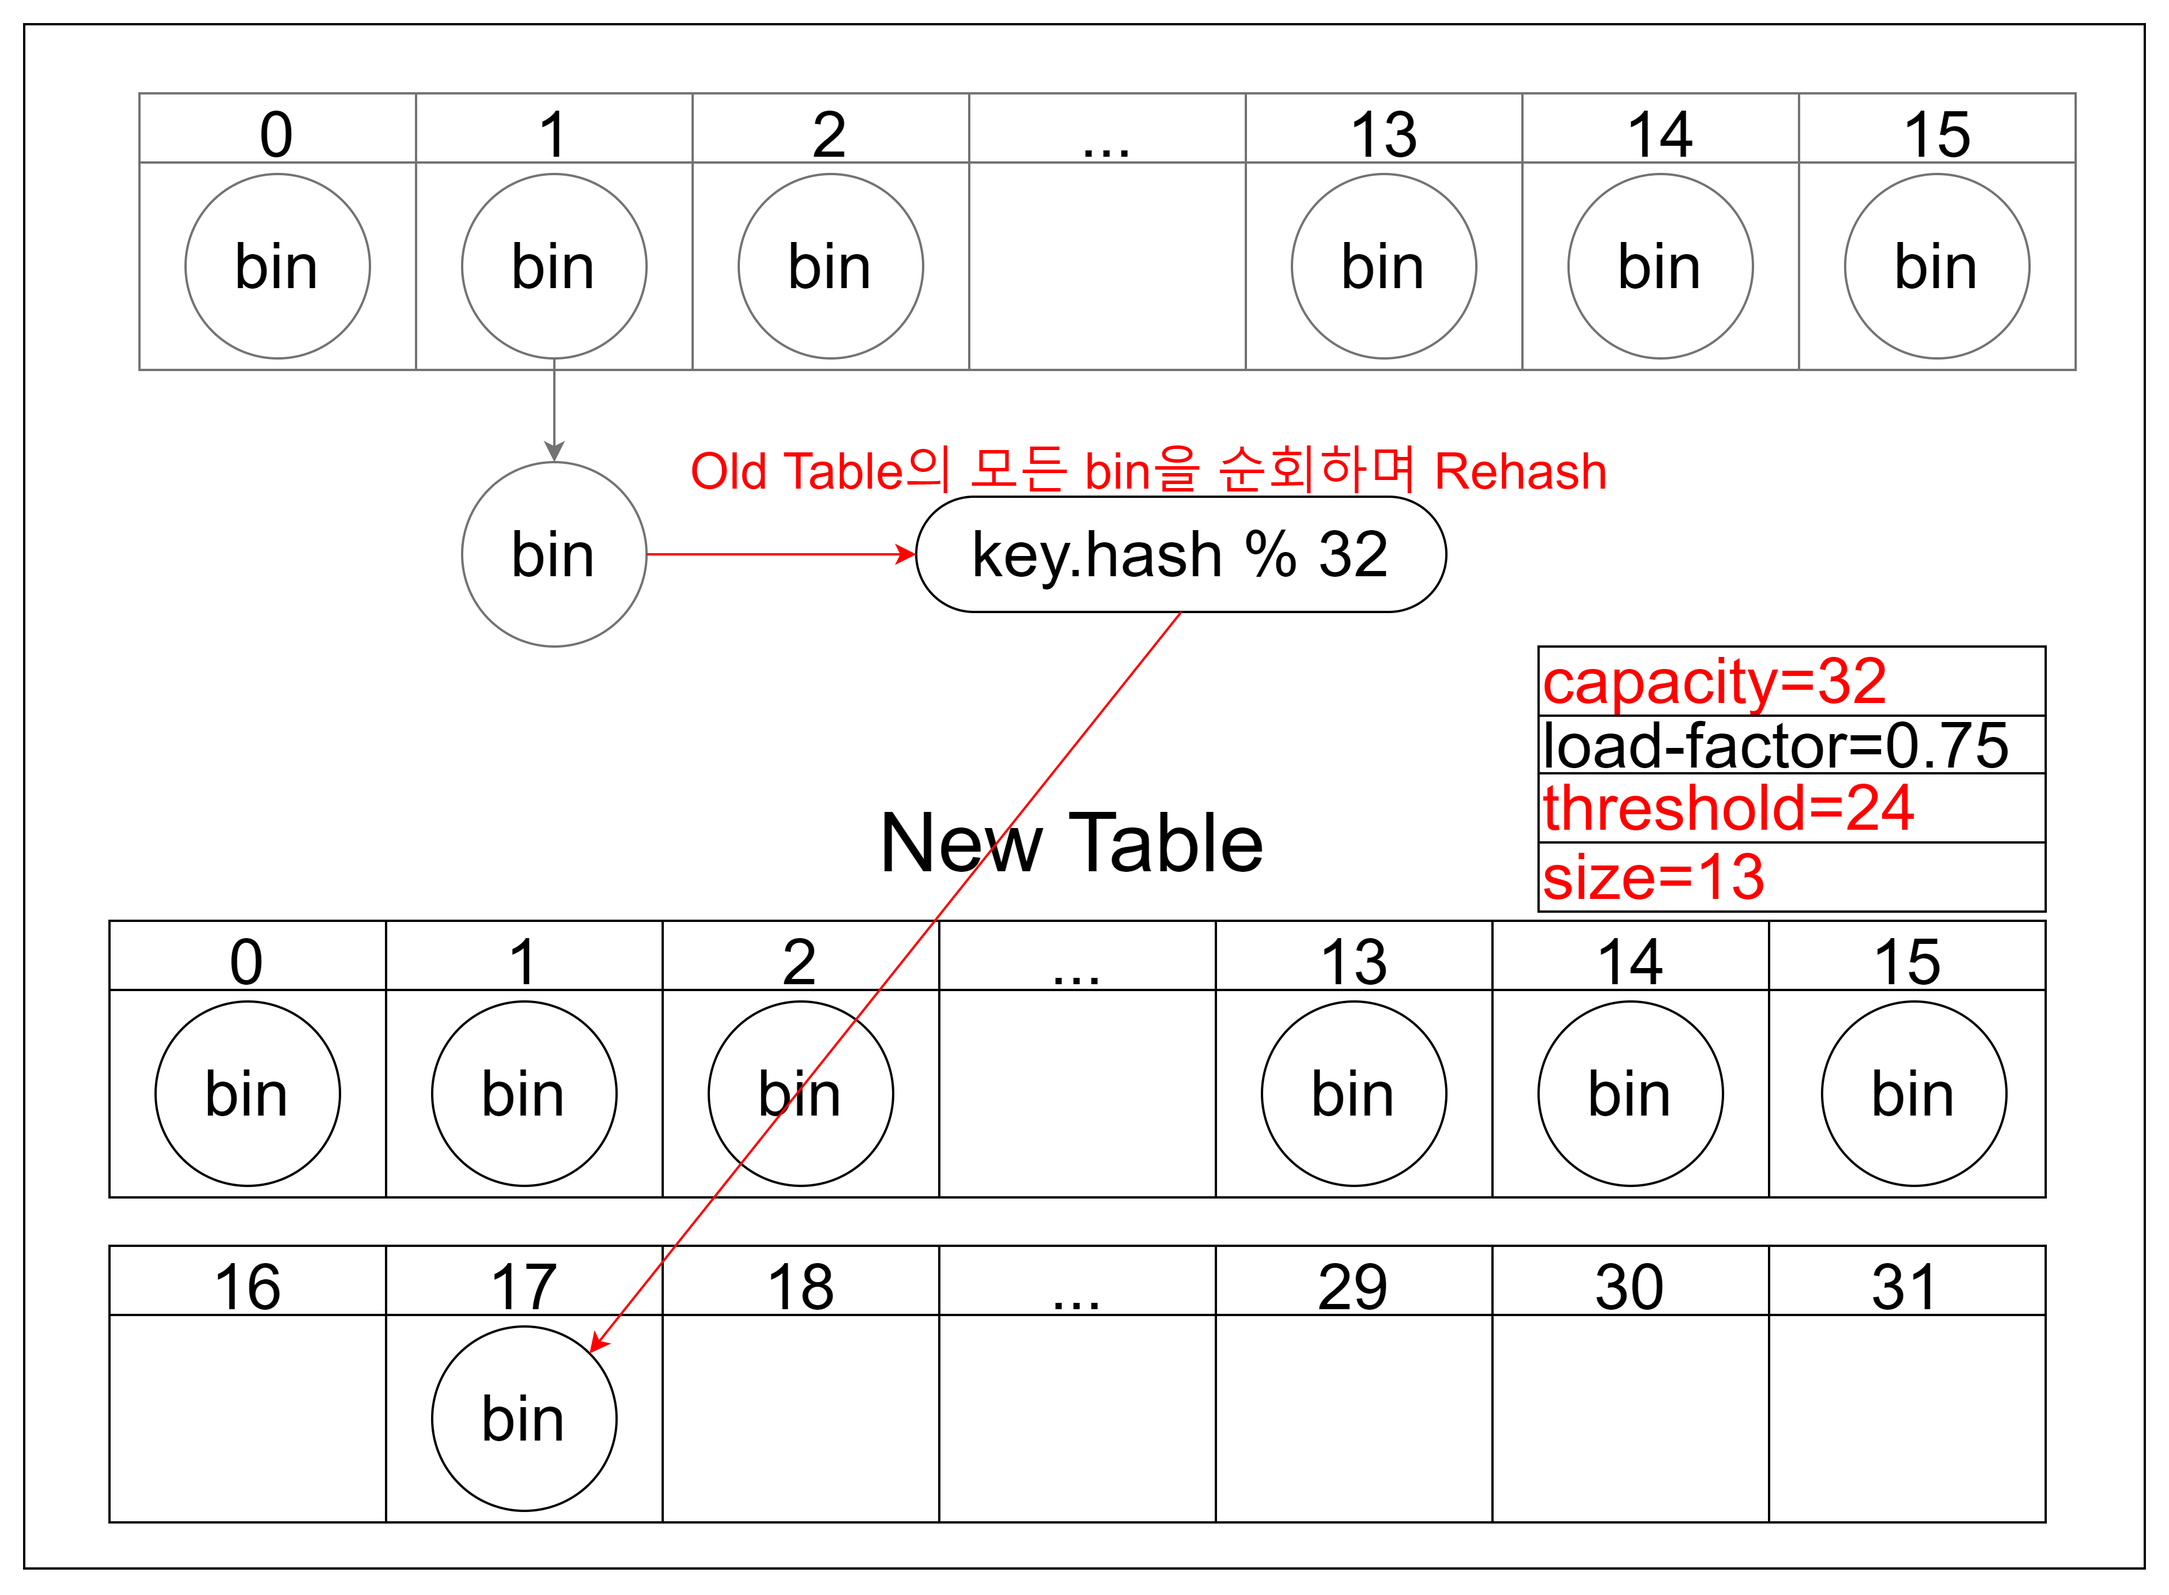
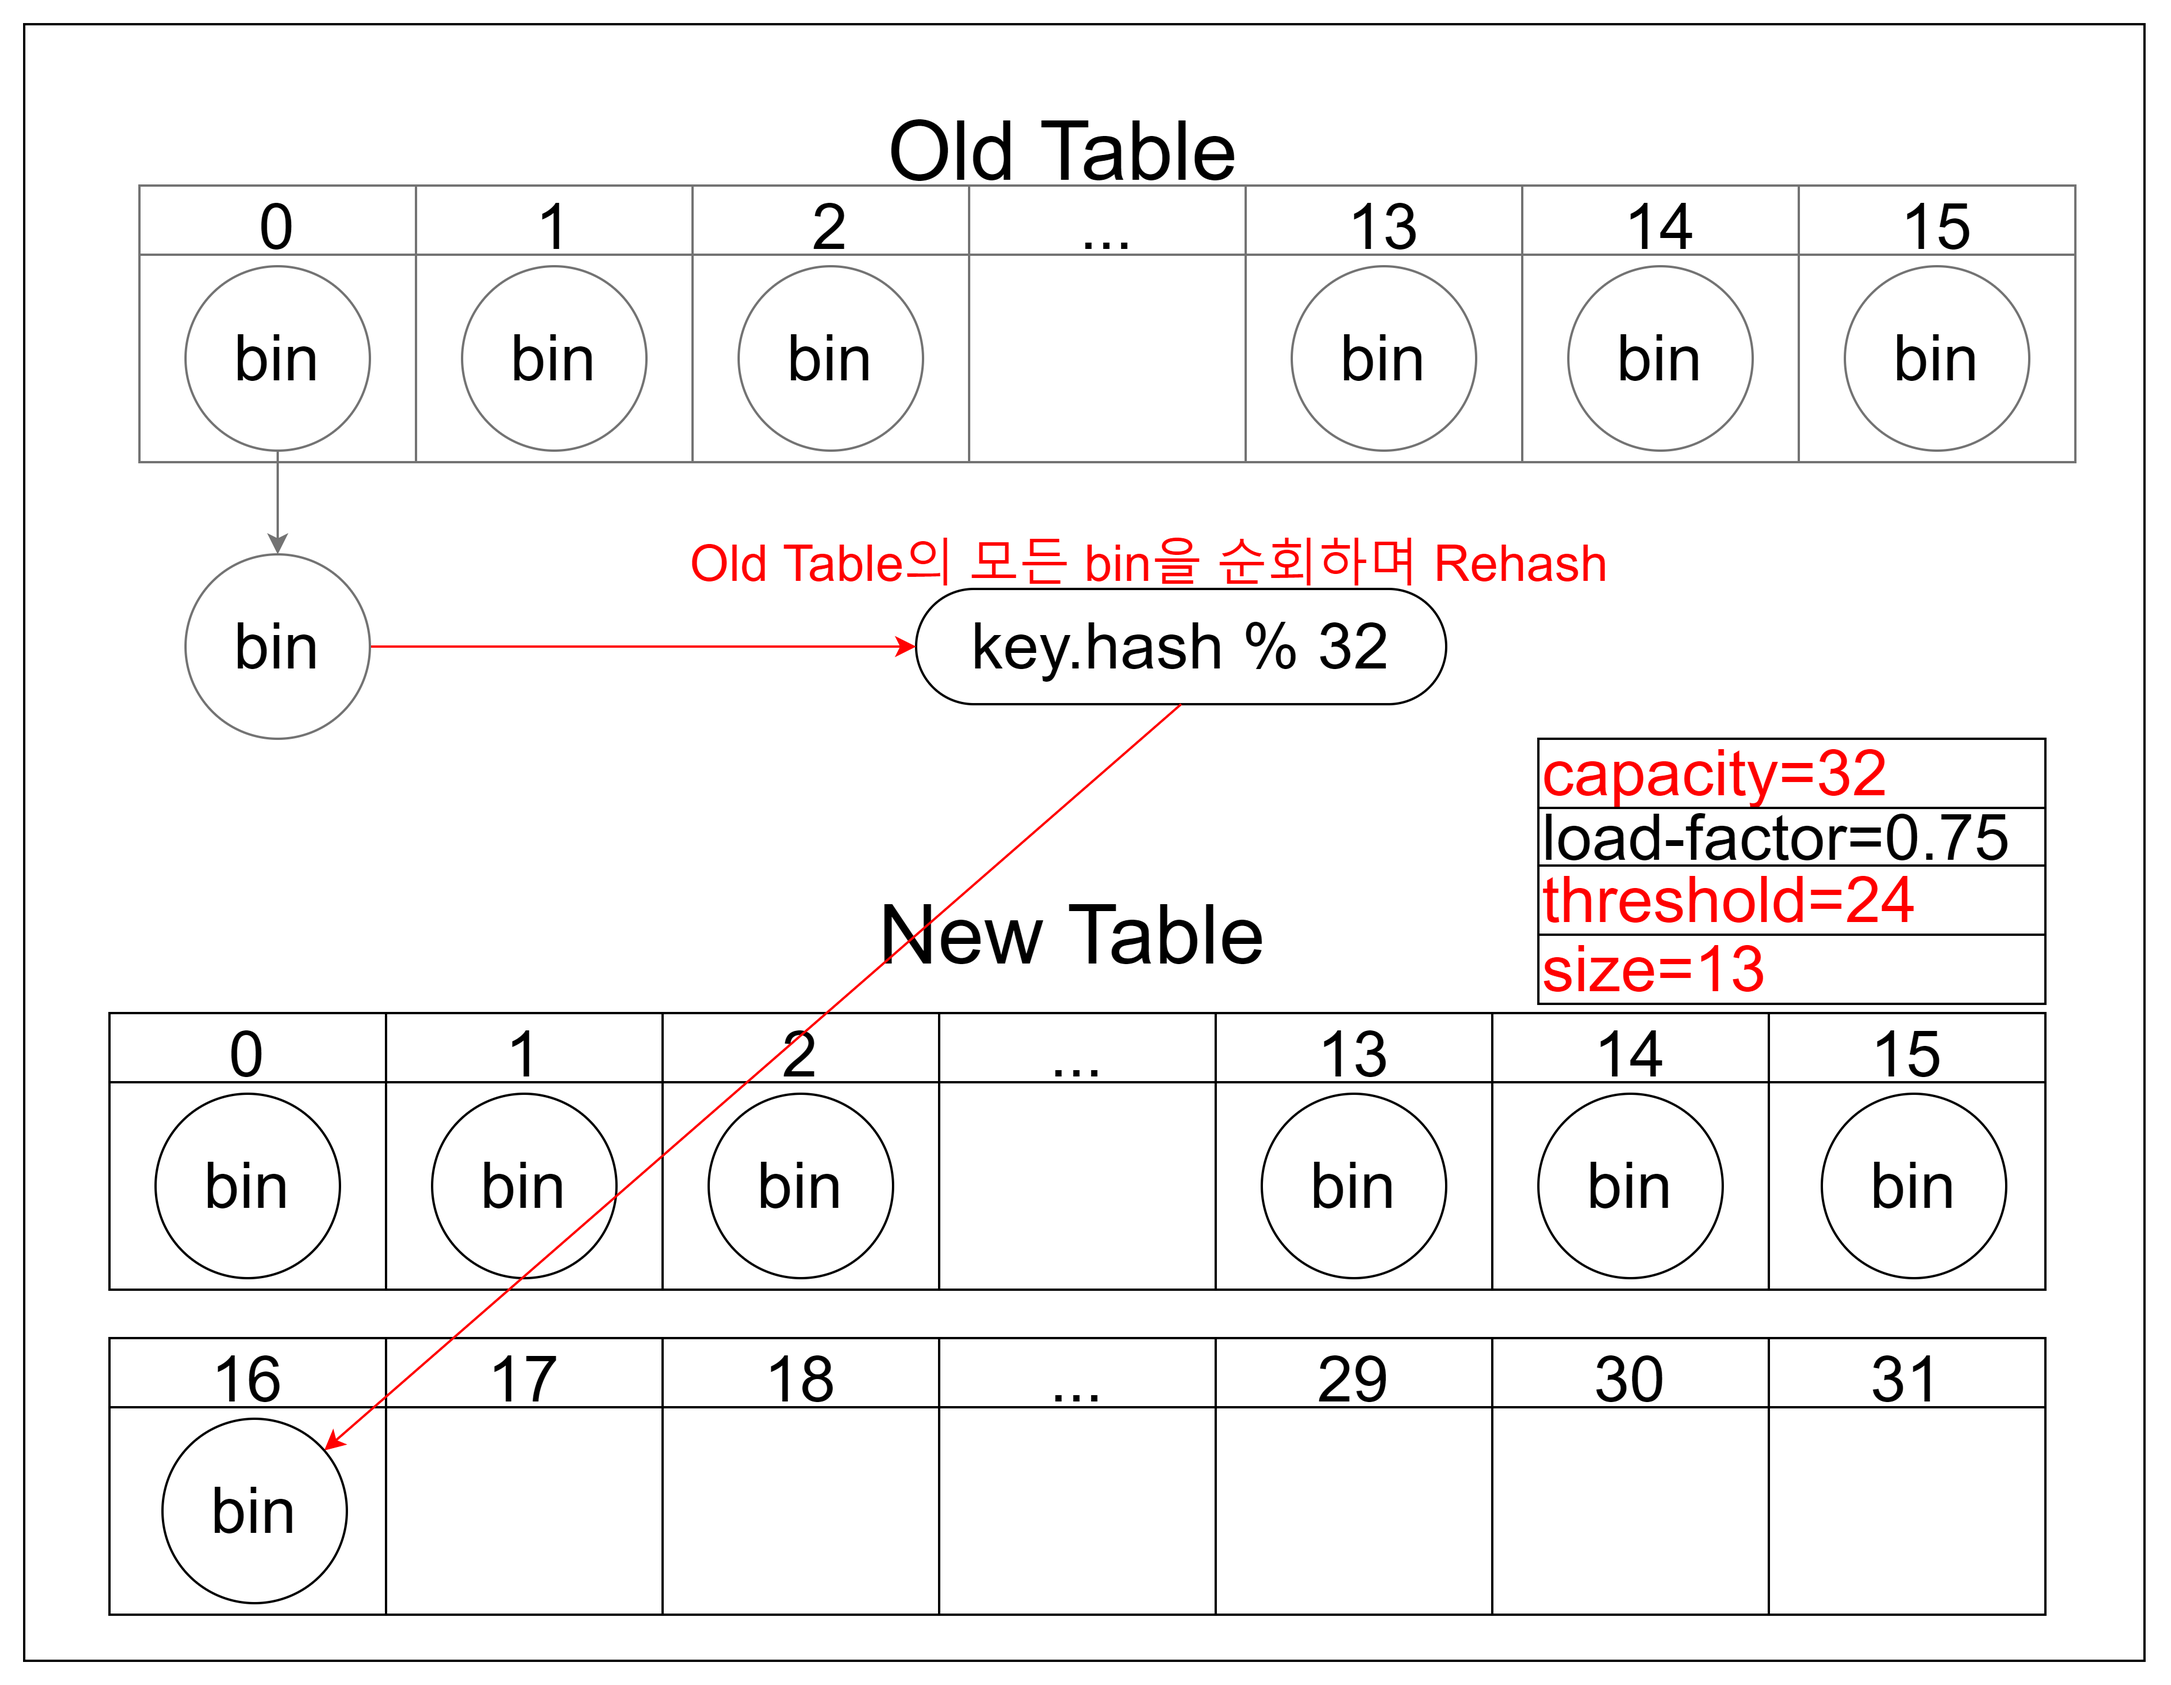
hashmap

diff --git a/java/visualization-of-hashmap.md b/java/visualization-of-hashmap.md
@@ -1,28 +1,50 @@
 
-### 첫 원소 삽입과 해시맵 초기화
-해시맵은 내부적으로 `table` 배열을 가지고 있으며, default capacity=16으로 설정되어 있다. `table`은  `bin` 객체를 담는 배열이며, 이는 `Node` 클래스로 구현되었다. `Node`는 키, 값과 next node의 포인터를 담고 있다. 
+## 첫 원소 삽입과 테이블 초기화
+해시맵은 내부적으로 `table` 배열을 가지고 있으며, default capacity=16으로 설정되어 있다. `capacity`는 할당된 `table` 배열의 크기를 의미하며, `size`란, 현재 해시맵에서 관리중인 노드의 수를 의미한다. 
+`capacity`를 변화하게 만드는 요인인 `threshold`와 `load-factor`라는 값이 존재한다. 이들의 기본 초기값은 각각 16, 0.75로 설정되어 있다.
+
+`table`은  `bin` 객체를 담는 배열이며, 이는 `Node` 클래스로 구현되었다. `Node`는 키, 값과 next node의 포인터를 담고 있다. 
 특정 노드가 저장될 `table` 인덱스를 구하는 해시 함수는 `key의 해시코드 % table capacity`이다. `table`이 초기화되는 시점은 해시맵에 처음으로 노드가 삽입되는 시점까지 미뤄진다.
 
-키로 "foo", 값으로 "bar"를 갖는 원소를 해시맵에 저장하는 과정을 보여준다. 이 원소의 해시 결과는 0이므로, 키 값을 담는 `bin`이 생성되고 table[0]에 저장되었다.
+그림은 키로 "foo", 값으로 "bar"를 갖는 원소를 해시맵에 저장하는 과정을 보여준다. 이 원소의 해시 결과를 0으로 가정, 키 값을 담는 `bin`이 생성되어 table[0]에 저장되었다. 
+이로써, size=1을 갖게 된다.
+
 > NOTE: `capacity`는 2^n임이 보장되어야 한다. bitwise로 modulo를 표현한 함수가 예상치 못하게 동작할 수 있다.
 
 ![table-init.png](../img/hashmap/table-init.png)
 
-### 원소의 저장과 resize
-Map에 여러 키-값이 추가되었다. table[1]에는 두 bin이 단방향 연결리스트 형태로 저장되고 있다. 두 키가 해시 충돌되어 같은 인덱스에 저장된 상황을 의미한다. 
-아직까지 table의 capacity는 기본값인 16이며, 현재까지 추가된 bin의 수 (size)는 12이다. `threshold`와 `load-factor`는 각각 초기 기본값인 12, 0.75를 가정한다.
-`threshold`는 capacity를 더블링할 threshold size를 의미한다. `threshold = load-factor * capacity`의 관계를 갖는다.
+## 원소의 조회
+Map에 여러 키-값이 추가되었다. `table[1]`에는 두 bin이 단방향 연결리스트 형태로 저장되고 있다. 두 키가 해시 충돌되어 같은 인덱스에 저장된 상황을 의미한다. 
+충돌된 두 노드를 "Siblings", "Teheran"으로 가정하자. "Siblings"라는 키에 매핑된 값을 찾는 과정은 다음과 같다.
+1. "Siblings"의 해시코드를 해싱해 인덱스를 결정한다.
+2. 해당 인덱스에 담긴 노드의 키와 주어진 입력 키의 해시코드와 equality을 비교한다. 리스트 형태로 체이닝될 수 있으므로, next node를 순회하며 이 과정을 반복한다.
+3. 일치하는 키를 찾으면 리턴한다.
 
-![meet-th.png](../img/hashmap/meet-th.png)
+![get.png](../img/hashmap/get.png)
 
+table의 capacity는 기본값인 16이며, 현재까지 추가된 bin의 수 (size)는 12이다. 
 
-새 원소가 추가되어 size가 13으로 증가한 상황이다. `size > threshold`이므로, 해시맵은 기존 테이블보다 2배 큰 새 table 배열을 만든다. 그 결과, `threshold` 또한 2배로 증가한다.  
-기존 테이블을 순회하면서, 각각의 bin을 새 capacity로 해싱한다. 아래 그림에서, `New Table[17]`에는 기존 테이블에서 충돌로 인해 리스트로 연결된 bin이 새로운 공간으로 저장된 상황을 보여준다.
-resize를 통해 리스트 체이닝되었던 원소들이 분산될 수 있다. 
+## table resize
+
+해시 테이블 자료구조를 설명할 때 '비둘기 집 원리'를 예시로 설명하는 경우가 많다. 
+크기가 16인 비둘기집(capacity)에 16개의 비둘기(size)를 담기 위한 이상적인 배치는 각 집에 하나의 비둘기가 골고루 들어간 상황이다.
+하지만 어떤 집에는 비둘기가 없는 대신 다른 집에 두 비둘기가 들어갈 수 있는데, 이를 해시 충돌로 비유한 것이다. 
+만약 비둘기가 한마리 더 추가된다면 한 집에 둘 이상의 비둘기가 들어가는 상황, 즉 해시 충돌이 필연적으로 발생한다.
+
+해시맵에서 충돌이 발생하는 근본적인 이유는, int 범위로 표현되는 해시코드를 `capacity`라는 제한된 크기로 매핑하기 때문이다. 
+이를 반대로 생각하면, `capacity`가 커질수록 해시 충돌이 완화될 수 있다. 이 `capacity`를 동적으로 늘리기 위한 기준이 `threshold`와 `load factor` 이다. 
+
+`threshold`와 `load factor`는 각각 초기 기본값으로 12, 0.75를 가진다. 해시맵의 `size`가 `threshold`를 넘어서면 2배 큰 `table`을 새로 만들게 된다.
+이때 `threshold = load factor * capacity`로 설정된다. `load factor`는 해시맵의 성능을 결정할 수 있는 요소로써, 사용자가 생성자에서 설정할 수 있다. `load factor`가 작을수록 더 이른 타이밍에 큰 공간을 만들어낼 수 있다. 
+이는 균일한 해시 분포를 유지해 조회 성능의 시간적 이점을 얻기 위해 더 큰 공간 비용을 지불하는 것이다.
+
+그림은 새 원소가 추가되어 size가 13으로 증가한 상황이다. `size > threshold`이므로, 해시맵은 기존 테이블보다 2배 큰 새 table 배열을 만든다. 그 결과, `threshold` 또한 2배로 증가한다.  
+기존 테이블을 순회하면서, 각각의 bin을 새 capacity로 리해싱한다. 아래 그림에서, `New Table[16]`에는 `Old Table[0]`에서 충돌로 인해 리스트로 연결된 bin이 새로운 공간으로 저장된 상황을 보여준다.
+즉, resize 과정에서 리스트 체이닝되었던 원소들이 분산될 수 있다. 
 
 ![resize.png](../img/hashmap/resize.png)
 
-### 원소의 리스트 체이닝과 Treeify
+## 원소의 리스트 체이닝과 Treeify
 해시 충돌이 심하게 발생해 한 버킷에 여러개의 bin이 연결리스트로 저장되는 상황을 가정하자. `HashMap`에는 `TREEIFY_THRESHOLD`라는 값으로, 연결 리스트로 관리될 수 있는 bin의 최대 길이를 제한한다.
 만약, 체이닝된 bin의 개수가 이 값을 넘어서면, 리스트를 Red-black tree 구조로 변환하는 'Treeify' 작업을 하게 된다.
 
@@ -39,5 +61,6 @@ Treeify를 위한 조건은 두가지를 모두 만족하는 경우이다.
 ![chained-bins-treeify.png](../img/hashmap/chained-bins-treeify.png)
 
 Treeify는 Node 타입의 bin 객체를 TreeNode로 변환한다. 이후, 단방향 연결 구조를 red-black-tree 형태로 재구성한다. 
+
 
 ![to-treenode.png](../img/hashmap/to-treenode.png)
